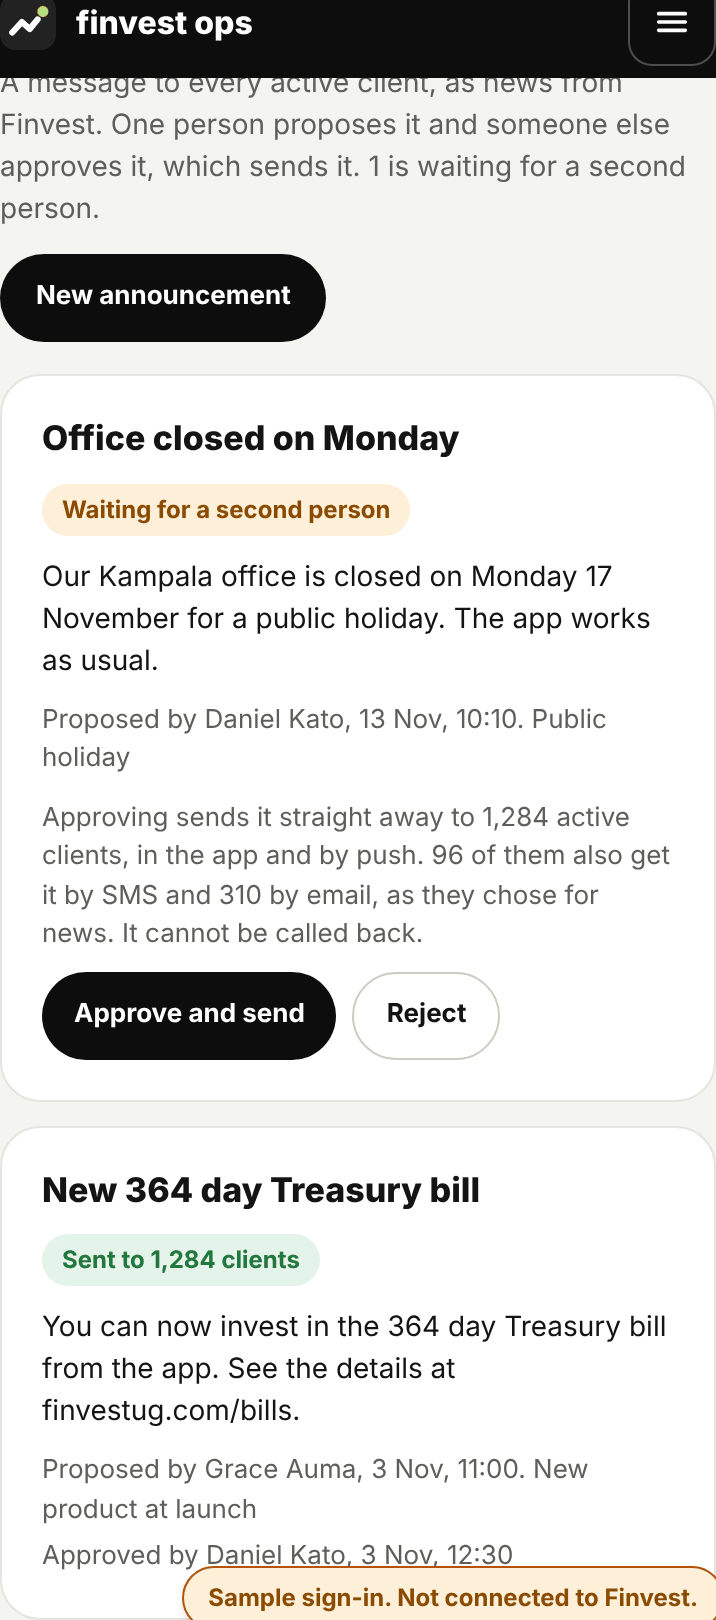
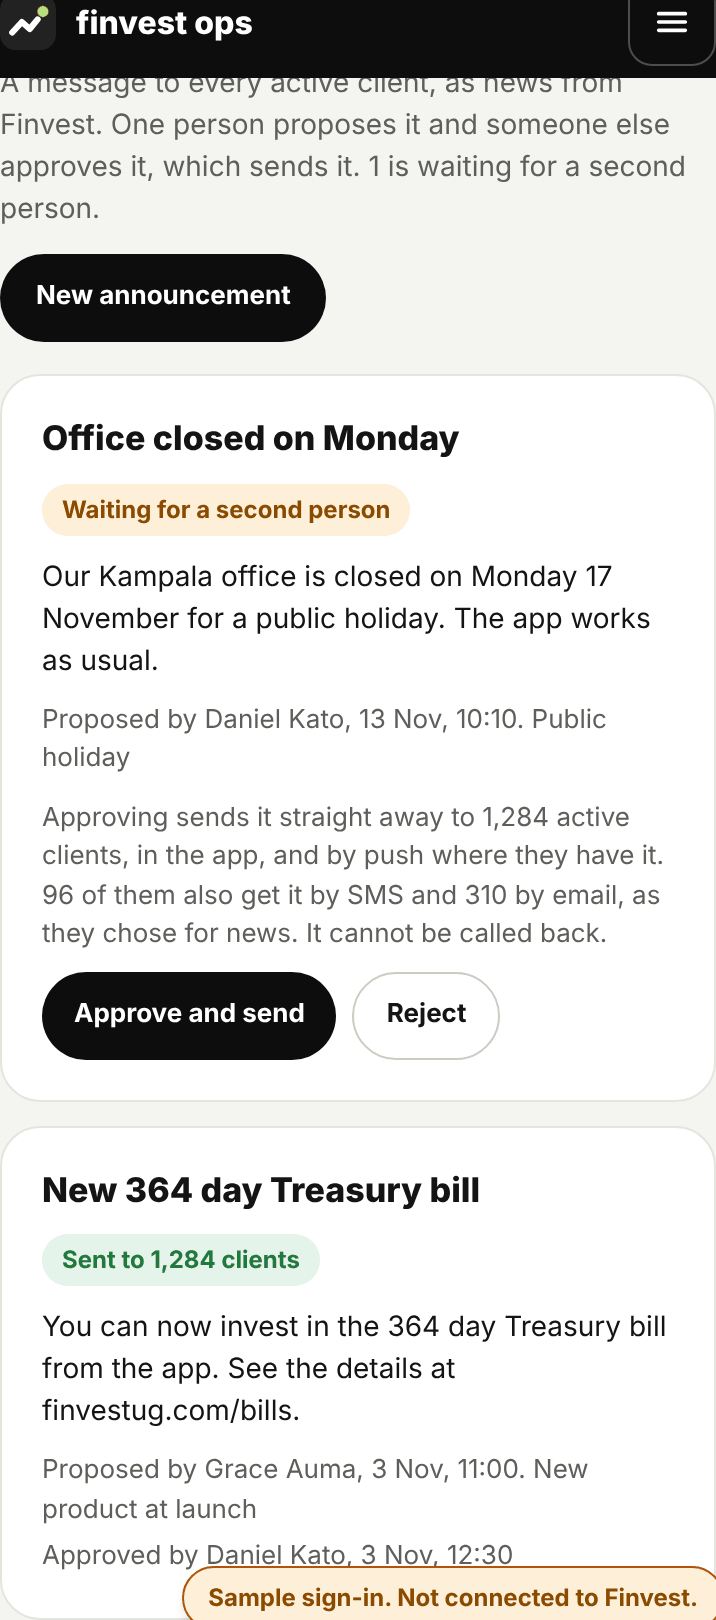
Say push goes only where clients have the app

Changed region(s): [[0.0615, 0.5247, 0.9218, 0.5864]]

diff --git a/apps/console/src/screens/settings/announcements.test.tsx b/apps/console/src/screens/settings/announcements.test.tsx
@@ -22,7 +22,7 @@ const card = (name: string) => screen.findByRole("article", { name });
 describe("reachSentence", () => {
   it("names one client and says when nobody chose SMS or email", () => {
     expect(reachSentence({ clients: 1, sms: 0, email: 0 })).toBe(
-      "Approving sends it straight away to 1 active client, in the app and by push. None of them chose SMS or email for news.",
+      "Approving sends it straight away to 1 active client, in the app, and by push where they have it. None of them chose SMS or email for news.",
     );
   });
 });
@@ -47,7 +47,7 @@ describe("settings: announcements", () => {
     const { user } = renderSection();
     const waiting = await card("Office closed on Monday");
     expect(waiting).toHaveTextContent(
-      "Approving sends it straight away to 1,284 active clients, in the app and by push. 96 of them also get it by SMS and 310 by email, as they chose for news. It cannot be called back.",
+      "Approving sends it straight away to 1,284 active clients, in the app, and by push where they have it. 96 of them also get it by SMS and 310 by email, as they chose for news. It cannot be called back.",
     );
     await user.click(within(waiting).getByRole("button", { name: "Approve and send" }));
     await waitFor(async () => expect(await card("Office closed on Monday")).toHaveTextContent("Sent to 1,284 clients"));

diff --git a/apps/console/src/screens/settings/Announcements.tsx b/apps/console/src/screens/settings/Announcements.tsx
@@ -425,5 +425,5 @@ export function reachSentence(reach: AnnouncementReach | null): string {
     reach.sms === 0 && reach.email === 0
       ? "None of them chose SMS or email for news."
       : `${count(reach.sms)} of them also get it by SMS and ${count(reach.email)} by email, as they chose for news.`;
-  return `Approving sends it straight away to ${clients}, in the app and by push. ${extra}`;
+  return `Approving sends it straight away to ${clients}, in the app, and by push where they have it. ${extra}`;
 }
